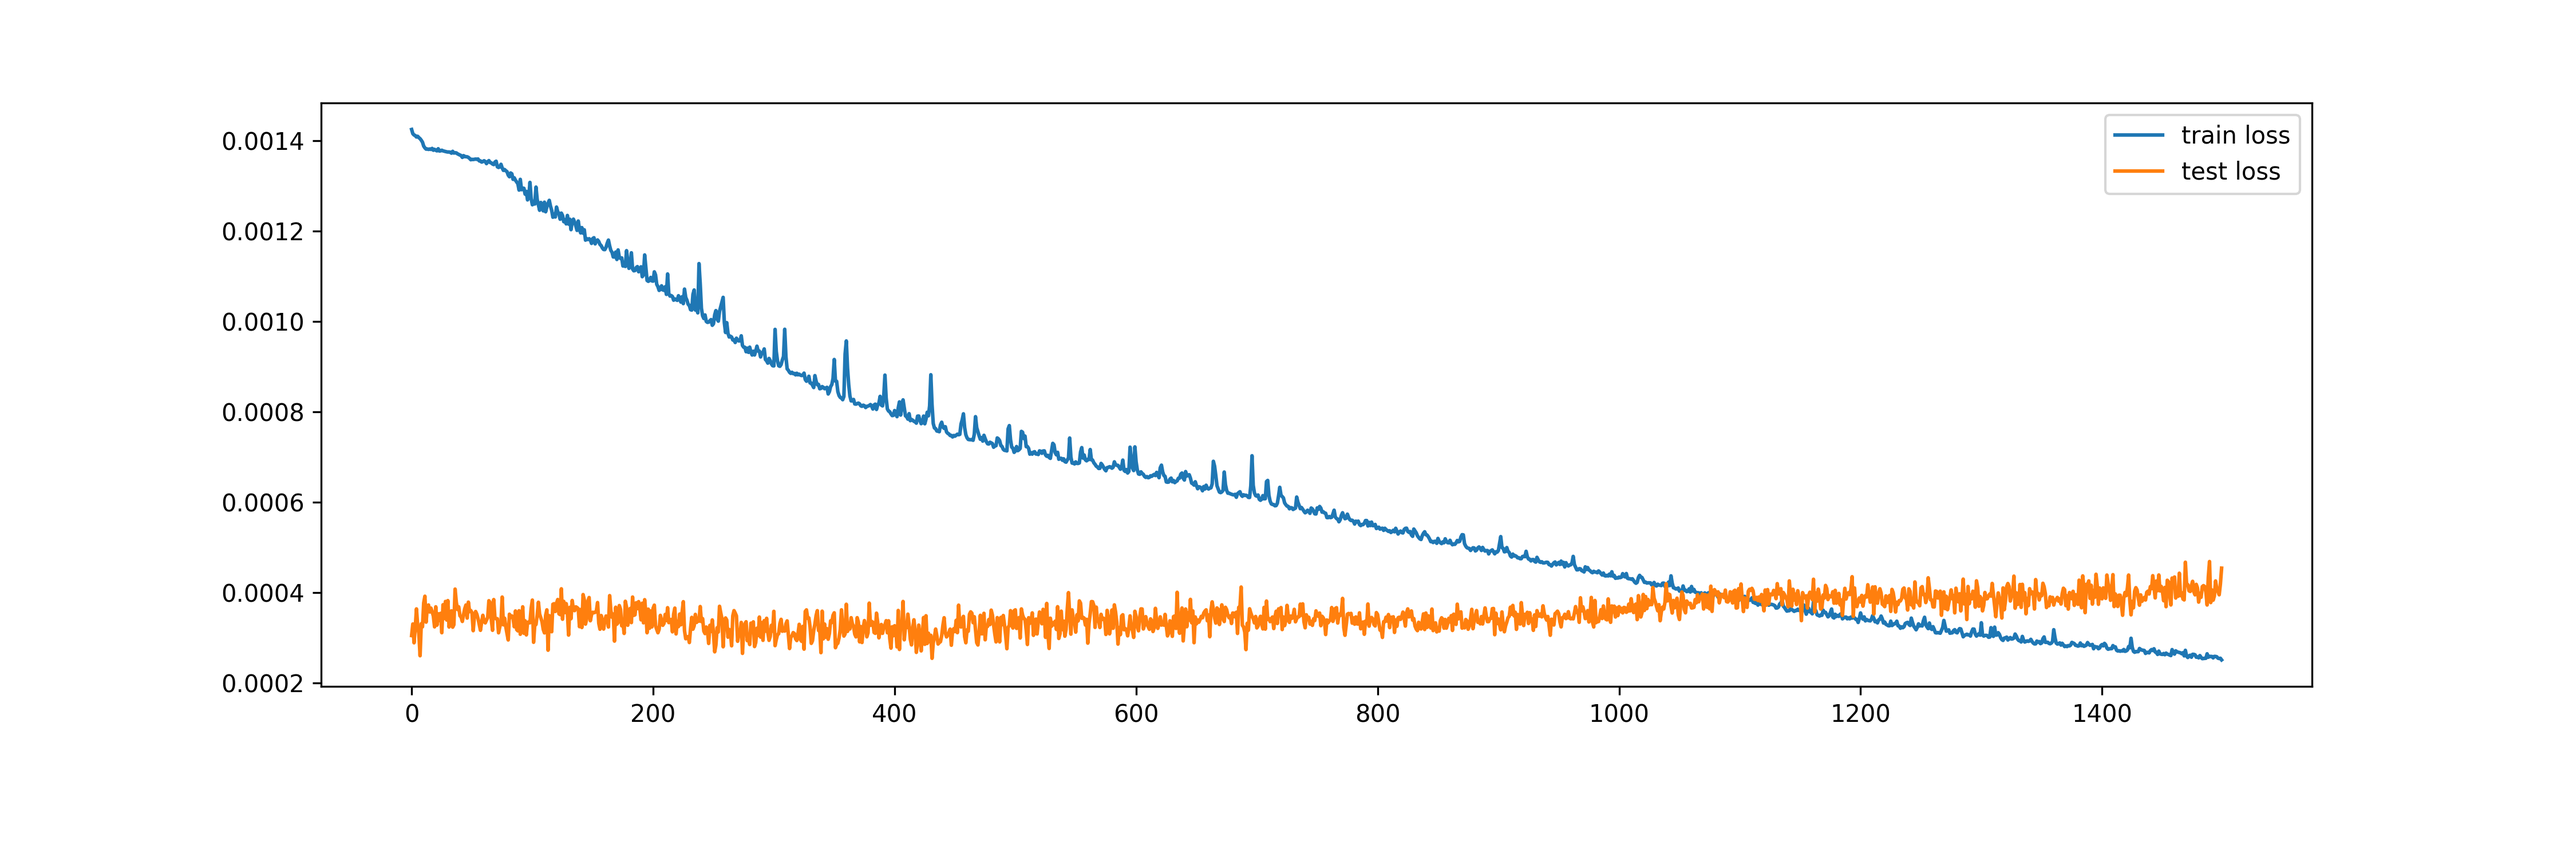
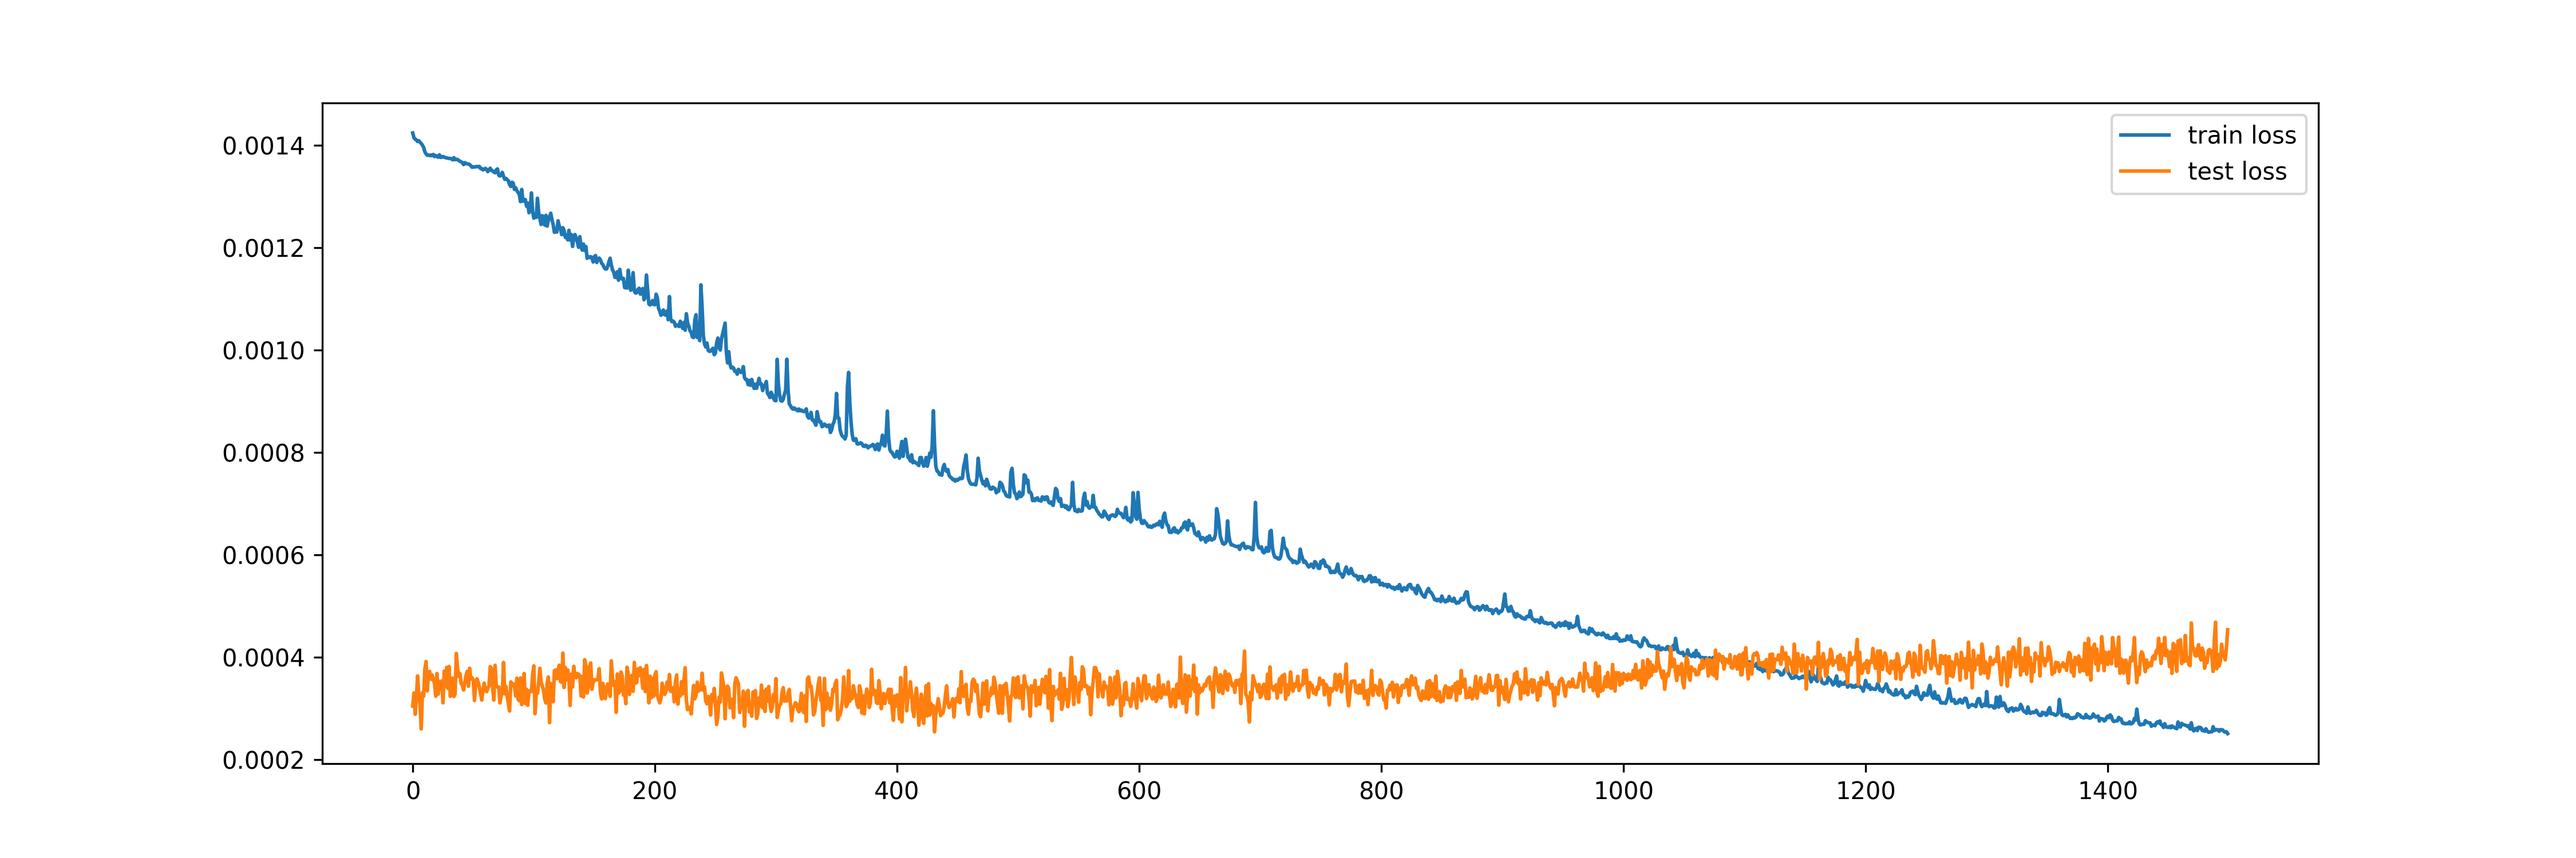
renamed multistep to multioutput in StockForecastDL

diff --git a/Forecasting/ts_tensorflow.py b/Forecasting/ts_tensorflow.py
@@ -12,7 +12,7 @@ from tensorflow.keras.layers import Conv1D, MaxPooling1D, GlobalMaxPooling1D  # 
 from tensorflow.keras.models import Model
 
 
-def ann(T, num_layers=32):
+def ann(T, num_units=32):
     """
     Create a basic Artificial Neural Network (ANN) model.
 
@@ -24,13 +24,13 @@ def ann(T, num_layers=32):
         tuple: Input and output tensors of the ANN model.
     """
     i = Input(shape=(T,))
-    x = Dense(num_layers, activation='relu')(i)
-    x = Dense(num_layers, activation='relu')(x)
+    x = Dense(num_units, activation='relu')(i)
+    x = Dense(num_units, activation='relu')(x)
 
     return i, x
 
 
-def rnn(T, D, num_layers=32, rnn_model="lstm"):
+def rnn(T, D, num_units=32, rnn_model="lstm"):
     """
     Create a Recurrent Neural Network (RNN) model.
 
@@ -45,14 +45,14 @@ def rnn(T, D, num_layers=32, rnn_model="lstm"):
     """
     i = Input(shape=(T, D))
     if rnn_model == 'lstm':
-        x = LSTM(num_layers, return_sequences=True)(i)
-        x = LSTM(num_layers)(x)
+        x = LSTM(num_units, return_sequences=True)(i)
+        x = LSTM(num_units)(x)
     elif rnn_model == 'gru':
-        x = GRU(num_layers, return_sequences=True)(i)
-        x = GRU(num_layers)(x)
+        x = GRU(num_units, return_sequences=True)(i)
+        x = GRU(num_units)(x)
     else:
-        x = SimpleRNN(num_layers, return_sequences=True)(i)
-        x = SimpleRNN(num_layers)(x)
+        x = SimpleRNN(num_units, return_sequences=True)(i)
+        x = SimpleRNN(num_units)(x)
 
     return i, x
 
@@ -110,7 +110,7 @@ class StocksForecastDL:
         self.train_idx = []
         self.test_idx = []
 
-    def prepare_data(self, df, col, ann=False, multistep=False):
+    def prepare_data(self, df, col, ann=False, multioutput=False):
         """
         Prepare the data for training and testing.
 
@@ -118,7 +118,7 @@ class StocksForecastDL:
             df (DataFrame): Input data.
             col (list): List of columns to be used.
             ann (bool): Indicates whether ANN model is used.
-            multistep (bool): Indicates whether multistep prediction is performed.
+            multioutput (bool): Indicates whether multioutput prediction is performed.
 
         Returns:
             tuple: Prepared data for training and testing.
@@ -138,7 +138,7 @@ class StocksForecastDL:
         Y = []
 
         start_idx = self.N_TEST
-        if multistep:
+        if multioutput:
             for t in range(len(series) - self.T - self.N_TEST + 1):
                 x = series[t:t + self.T]
                 X.append(x)
@@ -177,7 +177,7 @@ class StocksForecastDL:
                          Xtest,
                          model,
                          ann=False,
-                         multistep=False):
+                         multioutput=False):
         """
         Make predictions using the trained model.
 
@@ -190,12 +190,12 @@ class StocksForecastDL:
             Xtest (ndarray): Test input data.
             model (Model): Trained model.
             ann (bool): Indicates whether ANN model is used.
-            multistep (bool): Indicates whether multistep prediction is performed.
+            multioutput (bool): Indicates whether multioutput prediction is performed.
         """
         train = self.dfs[stock_name].iloc[:-self.N_TEST]
         train_idx[:self.T + 1] = False
 
-        if multistep:
+        if multioutput:
             Ptrain = model.predict(Xtrain)[:, 0]
             Ptest = model.predict(Xtest)[0]
         else:
@@ -210,7 +210,7 @@ class StocksForecastDL:
 
         last_train = train.iloc[-1][orig_col]
 
-        if not multistep:
+        if not multioutput:
             self.dfs[stock_name].loc[train_idx, '1step_train'] = prev[train_idx].squeeze() + Ptrain
             self.dfs[stock_name].loc[test_idx, '1step_test'] = prev[test_idx].squeeze() + Ptest
 
@@ -237,7 +237,7 @@ class StocksForecastDL:
                      col: list = ['Log'],
                      diff=True,
                      model="cnn",
-                     multistep=False,
+                     multioutput=False,
                      plot=True,
                      **kwargs):
         """
@@ -248,7 +248,7 @@ class StocksForecastDL:
             col (list): List of columns to be used.
             diff (bool): Indicates whether differencing is applied.
             model (str): Model type ('ann', 'rnn', or 'cnn').
-            multistep (bool): Indicates whether multistep prediction is performed.
+            multioutput (bool): Indicates whether multioutput prediction is performed.
             plot (bool): Whether to plot. Default is True.
             **kwargs: Additional keyword arguments for the selected model.
         """
@@ -269,7 +269,7 @@ class StocksForecastDL:
         else:
             ann_bool = False
 
-        output = self.prepare_data(df=self.dfs[stock_name], col=new_col, ann=ann_bool, multistep=multistep)
+        output = self.prepare_data(df=self.dfs[stock_name], col=new_col, ann=ann_bool, multioutput=multioutput)
         Xtrain, Ytrain, Xtest, Ytest, train_idx, test_idx, N, D = output
 
         self.train_idx = train_idx
@@ -281,7 +281,7 @@ class StocksForecastDL:
         else:
             i, x = build_model(T=self.T, D=D, **kwargs)
 
-        if multistep:
+        if multioutput:
             x = Dense(self.N_TEST)(x)
         else:
             x = Dense(1)(x)
@@ -305,11 +305,12 @@ class StocksForecastDL:
         )
 
         if plot:
+            plt.figure(figsize=(15, 5))
             plt.plot(r.history['loss'], label='train loss')
             plt.plot(r.history['val_loss'], label='test loss')
             plt.legend()
 
-            if multistep:
+            if multioutput:
                 step_type = "multi"
             else:
                 step_type = "single"
@@ -320,7 +321,7 @@ class StocksForecastDL:
                 plt.savefig(f"{model}_{step_type}_hist.png", dpi=300)
             plt.clf()
 
-        self.make_predictions(stock_name, col, train_idx, test_idx, Xtrain, Xtest, nn_model, ann_bool, multistep)
+        self.make_predictions(stock_name, col, train_idx, test_idx, Xtrain, Xtest, nn_model, ann_bool, multioutput)
 
     def single_model_comparison(self,
                                 stock_name: str = 'UAL',
@@ -345,7 +346,7 @@ class StocksForecastDL:
         """
 
         self.run_forecast(model=model, stock_name=stock_name, diff=diff, plot=plot, **kwargs)
-        self.run_forecast(model=model, stock_name=stock_name, diff=diff, multistep=True, plot=plot, **kwargs)
+        self.run_forecast(model=model, stock_name=stock_name, diff=diff, multioutput=True, plot=plot, **kwargs)
 
         if plot:
             pred_cols = col + ['1step_test', 'multistep', 'multioutput']
